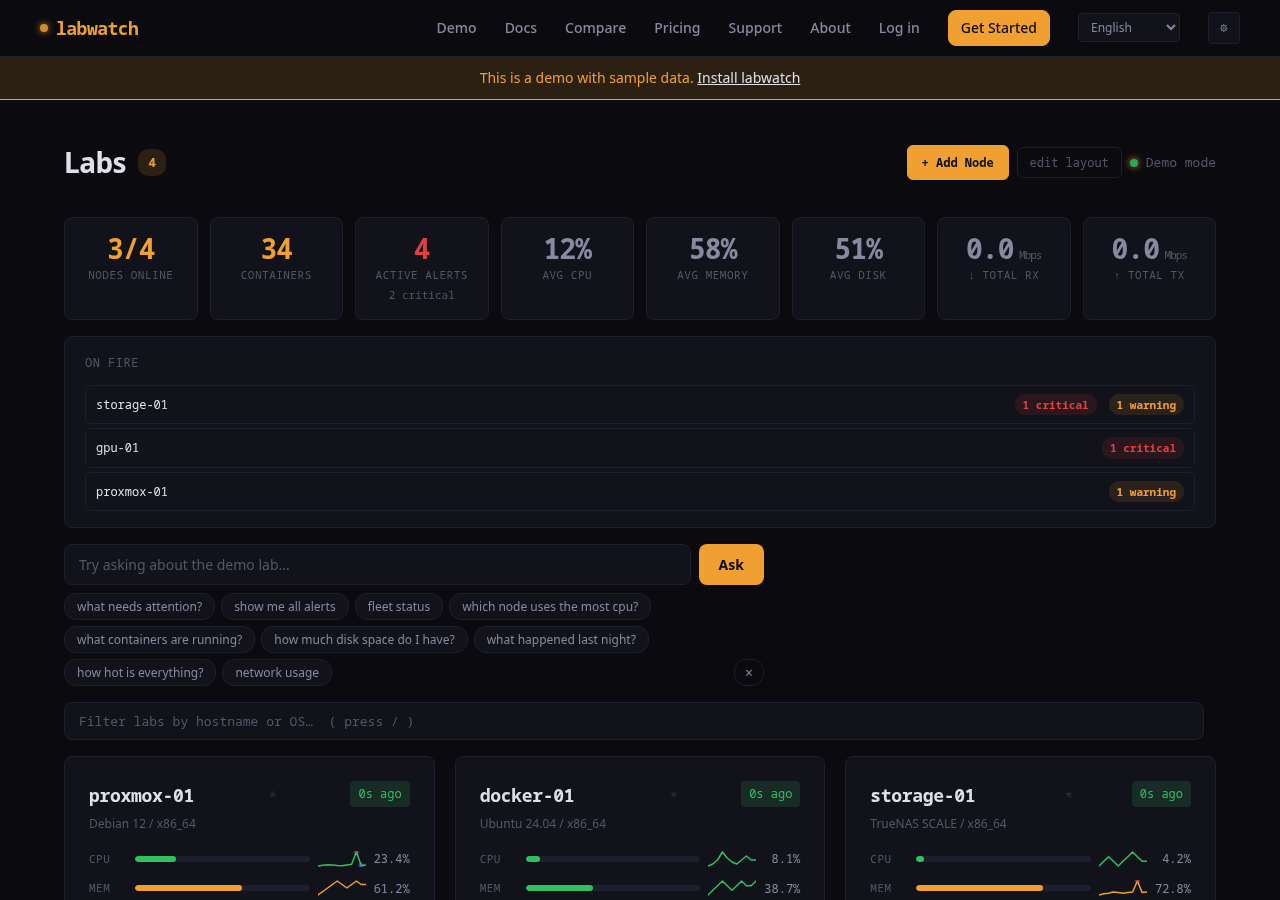
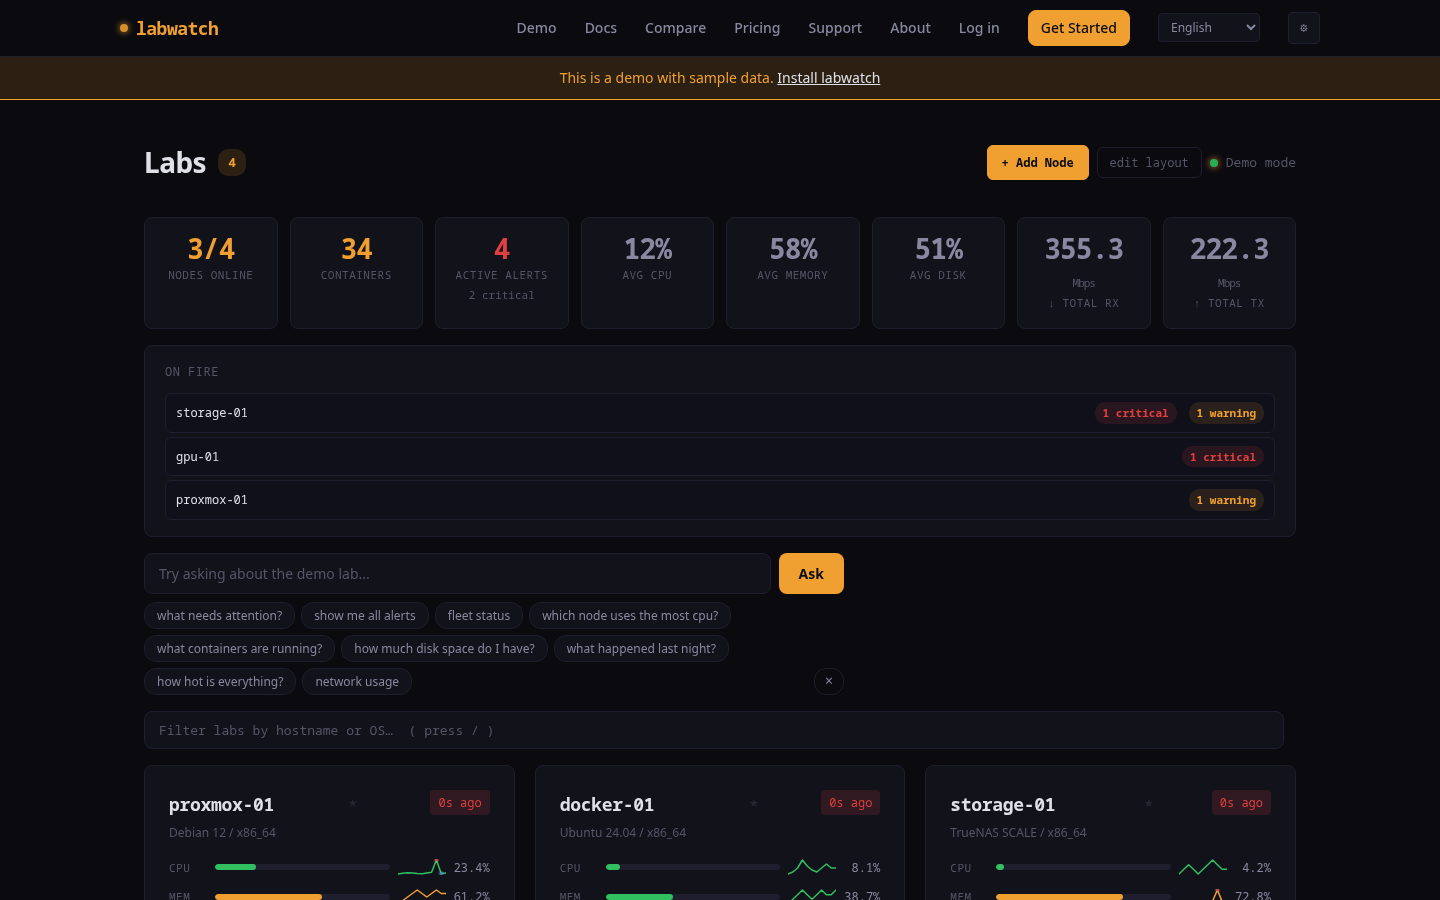
Update README screenshots and fix timeAgo NaN for timezone-aware timestamps
Fresh screenshots show live network stats (355/222 Mbps vs old 0.0).
Fixed timeAgo() to handle +00:00 timezone suffix from Python's isoformat()
instead of blindly appending Z.

diff --git a/server/templates/base.html b/server/templates/base.html
@@ -1167,8 +1167,11 @@
         function timeAgo(dateStr) {
             if (!dateStr) return 'never';
             const now = new Date();
-            // Server stores UTC timestamps without 'Z' suffix — add it so JS parses as UTC
-            const date = new Date(dateStr.endsWith('Z') ? dateStr : dateStr + 'Z');
+            // Server timestamps may have 'Z', '+00:00', or no tz suffix
+            var d = dateStr;
+            if (!d.endsWith('Z') && !/[+-]\d{2}:\d{2}$/.test(d)) d += 'Z';
+            const date = new Date(d);
+            if (isNaN(date.getTime())) return 'unknown';
             const seconds = Math.floor((now - date) / 1000);
 
             if (seconds < 0) return 'just now';
